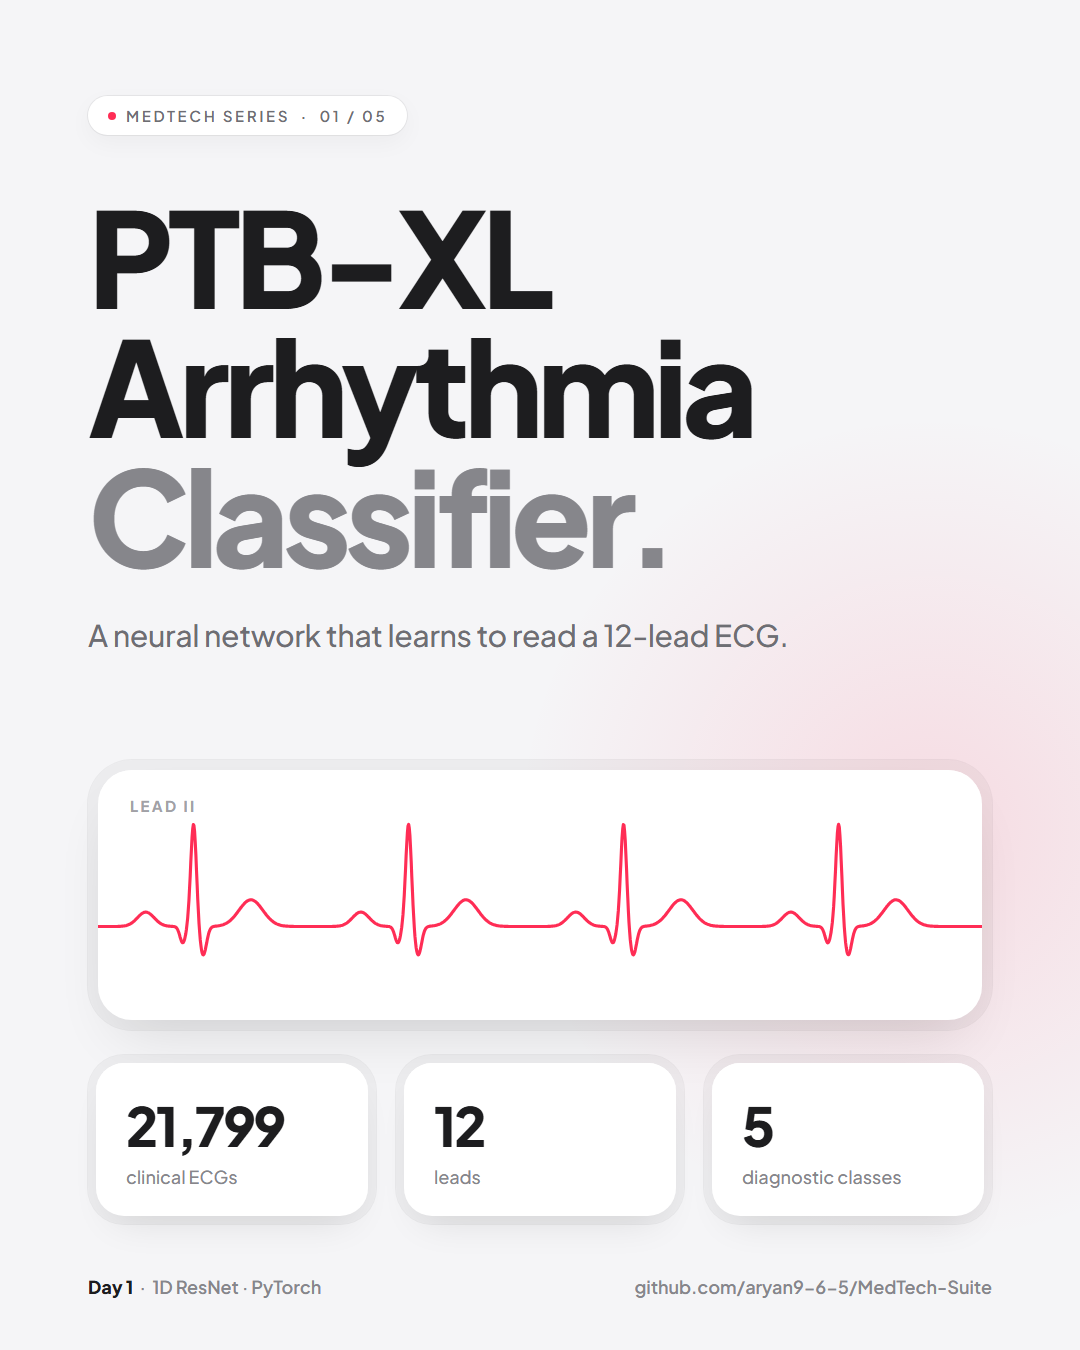
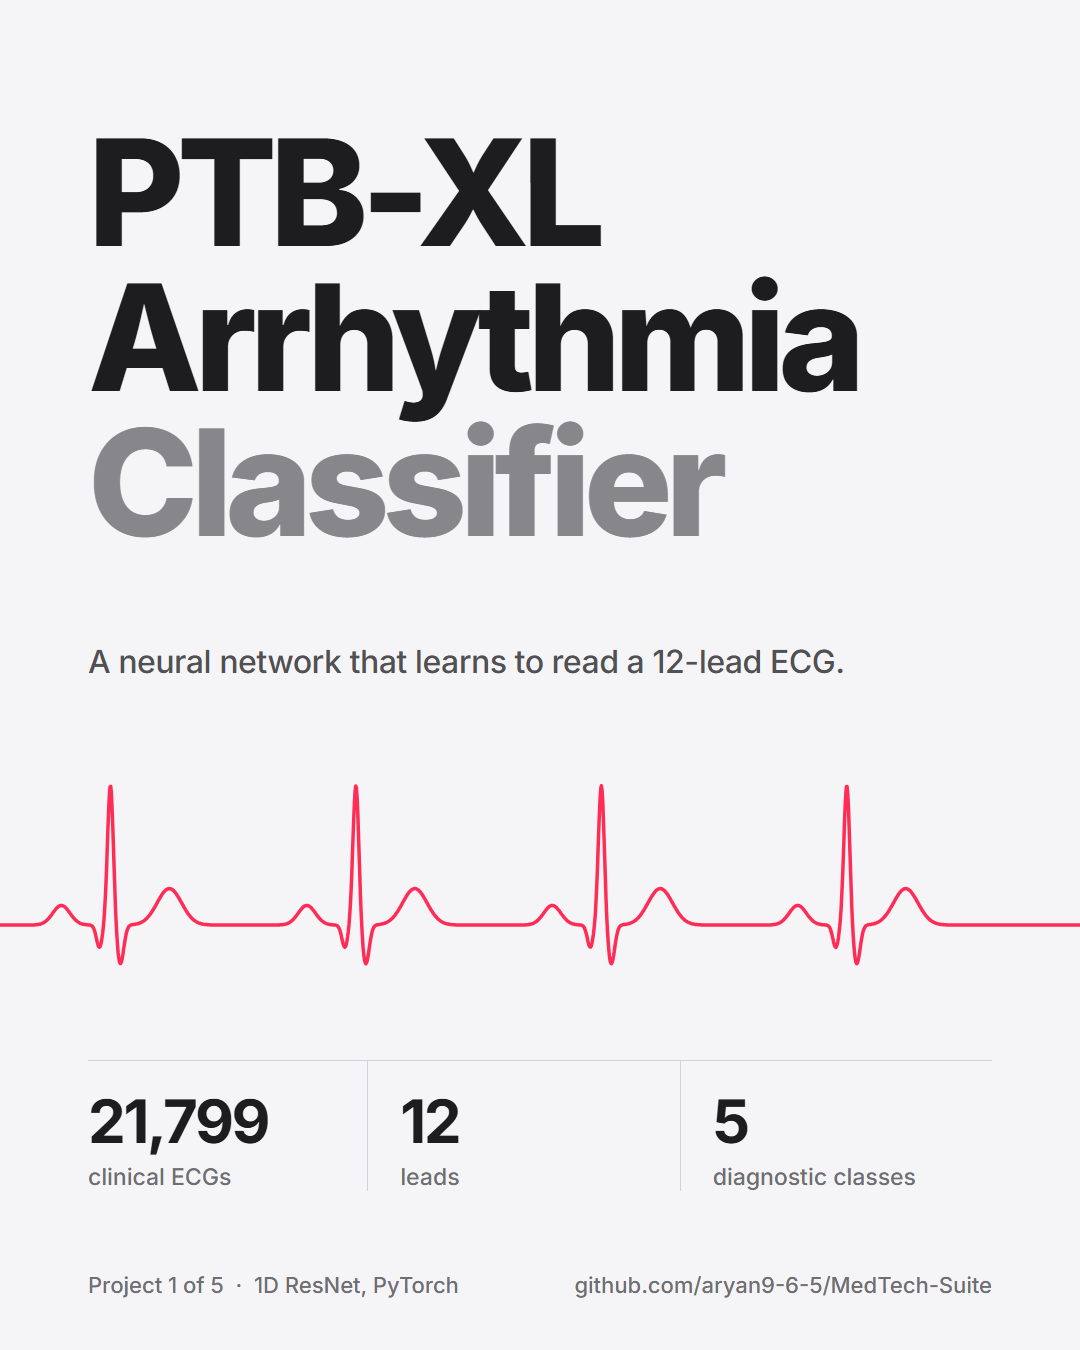
Simplify Day 1 title card: drop eyebrow and decoration

diff --git a/day-1-ptbxl-arrhythmia-classifier/assets/title.html b/day-1-ptbxl-arrhythmia-classifier/assets/title.html
@@ -1,46 +1,34 @@
 <!doctype html><html><head><meta charset="utf-8">
-<link href="https://fonts.googleapis.com/css2?family=Plus+Jakarta+Sans:wght@400;500;600;700;800&display=swap" rel="stylesheet">
+<link href="https://fonts.googleapis.com/css2?family=Inter:wght@400;500;600;700;800&display=swap" rel="stylesheet">
 <style>
 *{box-sizing:border-box;margin:0}
 html,body{width:1080px;height:1350px}
-body{background:#f5f5f7;font-family:'Plus Jakarta Sans',sans-serif;color:#1d1d1f;position:relative;overflow:hidden;-webkit-font-smoothing:antialiased}
-.glow{position:absolute;width:900px;height:900px;border-radius:50%;background:radial-gradient(circle,rgba(255,45,85,.13),rgba(255,45,85,0) 65%);right:-300px;top:380px}
-.wrap{position:absolute;inset:0;padding:96px 88px}
-.pill{display:inline-flex;align-items:center;gap:10px;padding:10px 20px;border-radius:99px;background:#fff;box-shadow:0 0 0 1px rgba(0,0,0,.06),0 8px 24px rgba(0,0,0,.04);font-size:15px;font-weight:600;letter-spacing:.18em;text-transform:uppercase;color:#6e6e73}
-.dot{width:8px;height:8px;border-radius:50%;background:#ff2d55}
-h1{margin-top:56px;font-size:132px;line-height:.98;font-weight:800;letter-spacing:-.045em}
+body{background:#f5f5f7;font-family:'Inter',-apple-system,'Segoe UI',sans-serif;color:#1d1d1f;position:relative;overflow:hidden;-webkit-font-smoothing:antialiased}
+h1{position:absolute;left:88px;top:120px;font-size:148px;line-height:.98;font-weight:800;letter-spacing:-.05em}
 h1 span{color:#86868b}
-.sub{margin-top:36px;font-size:30px;line-height:1.35;color:#6e6e73;font-weight:500;letter-spacing:-.01em;max-width:900px}
-.shell{position:absolute;left:88px;right:88px;top:760px;padding:10px;border-radius:44px;background:rgba(0,0,0,.035);box-shadow:0 0 0 1px rgba(0,0,0,.05)}
-.core{border-radius:34px;background:#fff;height:250px;box-shadow:inset 0 1px 1px rgba(255,255,255,.9),0 30px 60px -20px rgba(0,0,0,.12);position:relative;overflow:hidden}
-.core svg{position:absolute;inset:0}
-.lead{position:absolute;left:32px;top:26px;font-size:15px;font-weight:700;letter-spacing:.16em;color:#a1a1a6}
-.stats{position:absolute;left:88px;right:88px;top:1055px;display:flex;gap:20px}
-.stat{flex:1;padding:8px;border-radius:36px;background:rgba(0,0,0,.035);box-shadow:0 0 0 1px rgba(0,0,0,.05)}
-.stat div{border-radius:28px;background:#fff;padding:28px 30px;box-shadow:inset 0 1px 1px #fff,0 20px 40px -18px rgba(0,0,0,.12)}
-.n{font-size:54px;font-weight:800;letter-spacing:-.04em}.l{margin-top:6px;font-size:18px;font-weight:500;color:#86868b}
-.foot{position:absolute;left:88px;right:88px;bottom:52px;display:flex;justify-content:space-between;font-size:18px;font-weight:600;color:#86868b}
-.foot b{color:#1d1d1f}
+.sub{position:absolute;left:88px;top:640px;font-size:32px;line-height:1.35;color:#515154;font-weight:500;letter-spacing:-.015em}
+#s{position:absolute;left:0;top:740px;width:1080px;height:260px}
+.stats{position:absolute;left:88px;right:88px;top:1060px;display:flex;border-top:1.5px solid #d2d2d7}
+.stat{flex:1;padding-top:30px}
+.stat+.stat{padding-left:32px;border-left:1.5px solid #d2d2d7}
+.n{font-size:60px;font-weight:700;letter-spacing:-.04em;line-height:1}
+.l{margin-top:12px;font-size:23px;font-weight:500;color:#6e6e73}
+.foot{position:absolute;left:88px;right:88px;bottom:52px;display:flex;justify-content:space-between;font-size:22px;font-weight:500;color:#6e6e73}
 </style></head><body>
-<div class="glow"></div>
-<div class="wrap">
-  <div class="pill"><i class="dot"></i>MedTech Series &nbsp;·&nbsp; 01 / 05</div>
-  <h1>PTB-XL<br>Arrhythmia<br><span>Classifier.</span></h1>
-  <p class="sub">A neural network that learns to read a 12-lead ECG.</p>
-</div>
-<div class="shell"><div class="core"><div class="lead">LEAD II</div>
-<svg viewBox="0 0 904 250" preserveAspectRatio="none" id="s"></svg></div></div>
+<h1>PTB-XL<br>Arrhythmia<br><span>Classifier</span></h1>
+<p class="sub">A neural network that learns to read a 12-lead ECG.</p>
+<svg id="s" viewBox="0 0 1080 260" preserveAspectRatio="none"></svg>
 <div class="stats">
-  <div class="stat"><div><p class="n">21,799</p><p class="l">clinical ECGs</p></div></div>
-  <div class="stat"><div><p class="n">12</p><p class="l">leads</p></div></div>
-  <div class="stat"><div><p class="n">5</p><p class="l">diagnostic classes</p></div></div>
+  <div class="stat"><p class="n">21,799</p><p class="l">clinical ECGs</p></div>
+  <div class="stat"><p class="n">12</p><p class="l">leads</p></div>
+  <div class="stat"><p class="n">5</p><p class="l">diagnostic classes</p></div>
 </div>
-<div class="foot"><span><b>Day 1</b> &nbsp;·&nbsp; 1D ResNet · PyTorch</span><span>github.com/aryan9-6-5/MedTech-Suite</span></div>
+<div class="foot"><span>Project 1 of 5 &nbsp;·&nbsp; 1D ResNet, PyTorch</span><span>github.com/aryan9-6-5/MedTech-Suite</span></div>
 <script>
 // decorative synthetic ECG, not dataset data
 const g=(t,m,s,a)=>a*Math.exp(-((t-m)**2)/(2*s*s));
 const beat=(t,c)=>g(t,c-.2,.035,.14)-g(t,c-.045,.012,.16)+g(t,c,.012,1)-g(t,c+.04,.014,.28)+g(t,c+.24,.05,.26);
-let d='';for(let i=0;i<=1400;i++){const t=i/1400*3.7;let v=0;[.4,1.3,2.2,3.1].forEach(c=>v+=beat(t,c));
- d+=(i?'L':'M')+(i/1400*904).toFixed(1)+' '+(160-v*105).toFixed(1)}
-document.getElementById('s').innerHTML=`<path d="${d}" fill="none" stroke="#ff2d55" stroke-width="3.2" stroke-linecap="round" stroke-linejoin="round"/>`;
+let d='';for(let i=0;i<=1600;i++){const t=i/1600*4.4;let v=0;[.45,1.45,2.45,3.45].forEach(c=>v+=beat(t,c));
+ d+=(i?'L':'M')+(i/1600*1080).toFixed(1)+' '+(185-v*140).toFixed(1)}
+document.getElementById('s').innerHTML=`<path d="${d}" fill="none" stroke="#ff2d55" stroke-width="3.5" stroke-linecap="round" stroke-linejoin="round"/>`;
 </script></body></html>
